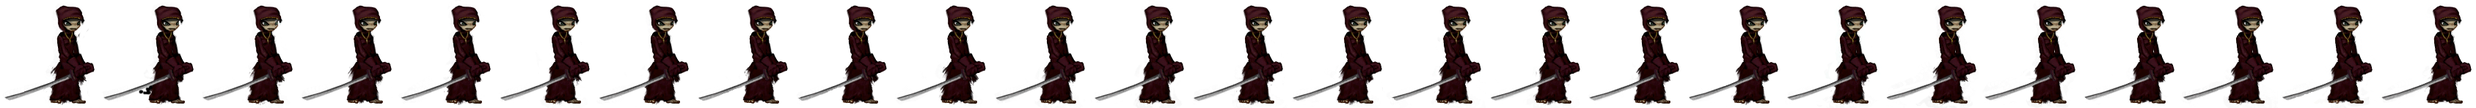
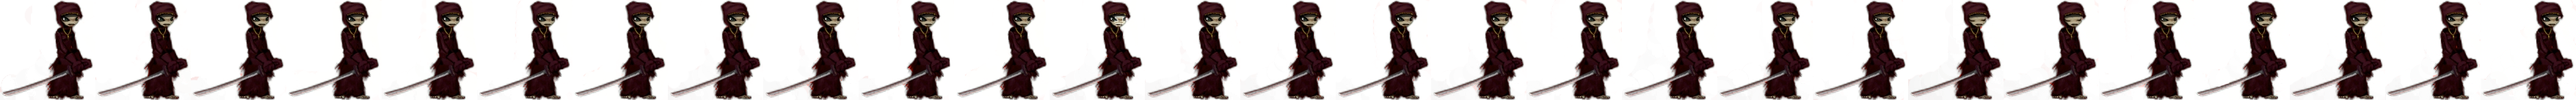
Actualizada animación de correr

diff --git a/TP4/EntregaFinal/js/game.js b/TP4/EntregaFinal/js/game.js
@@ -55,6 +55,23 @@ class GameObject {
     this.element.style.left = this.x + "px";
     this.element.style.top = this.y + "px";
   }
+
+  setAnimation(name, steps, length, iterations = "infinite"){
+    this.element.style.background = "url('images/" + name + ".png')";
+    this.element.style.animation = name + " " + length + "s steps(" + steps + ") " + iterations + "";
+  }
+
+  setSize(width, height){
+    this.width = width;
+    this.height = height;
+    this.element.style.width = this.width + "px";
+    this.element.style.height = this.height + "px";
+  }
+
+  setScale(x = 1, y = 1){
+    this.element.style.transform = "scale(" + x + ", " + y + ")";
+  }
+
   checkCollision(gameObject){
     if(!this.staticObject){
 
@@ -83,7 +100,6 @@ class GameObject {
 class Player extends GameObject{
   constructor(element) {
     super(element);
-    this.holdingKey = false;
     this.pressedKeys = {68: false, 39: false, 65: false, 37: false, 32: false};
     let p = this;
     document.onkeydown = function (e) { p.keyDown(e) };
@@ -100,7 +116,7 @@ class Player extends GameObject{
 
   keyUp(e){
     if (e.keyCode in this.pressedKeys) {
-     this.pressedKeys[e.keyCode] = false;
+      this.pressedKeys[e.keyCode] = false;
     }
     this.velocity = new Point(0,0);
   }
@@ -109,28 +125,21 @@ class Player extends GameObject{
     super.update();
 
     if(this.velocity.x == 0) {
-      this.element.style.width = "135px";
-      this.element.style.height =  "148px";
-      this.element.style.background = "url('images/player_idle.png')";
-      this.element.style.animation = "player_idle 2s steps(25) infinite";
+      this.setSize(135, 137);
+      this.setAnimation("player_idle", 27, 2);
     }
     else{
-      this.element.style.width = "160px";
-      this.element.style.height =  "143px";
-      this.element.style.background = "url('images/player_run.png')";
-      this.element.style.animation = "player_run .6s steps(17) infinite";
+      this.setSize(151, 137);
+      this.setAnimation("player_run", 18, .6);
     }
-
-
-
 
     if(this.pressedKeys[68] || this.pressedKeys[39]) {
       this.velocity.x = 1;
-      this.element.style.transform = "scaleX(1)";
+      this.setScale(1);
     }
     else if(this.pressedKeys[65] || this.pressedKeys[37]){
       this.velocity.x = -1;
-      this.element.style.transform = "scaleX(-1)";
+      this.setScale(-1);
     }
     this.element.style.left = this.x + "px";
 

diff --git a/TP4/EntregaFinal/css/game.css b/TP4/EntregaFinal/css/game.css
@@ -7,15 +7,14 @@ body{
   position: absolute;
   left: 0px;
   top: 100px;
-  width: 135px;
-  height: 148px;
+  animation-fill-mode: forwards;
 }
 
 @keyframes player_idle {
-  100% { background-position: -3375px}
+  100% { background-position: -3510px}
 }
 @keyframes player_run {
-  100% { background-position: -2720px }
+  100% { background-position: -2718px }
 }
 #floor{
   position: absolute;
